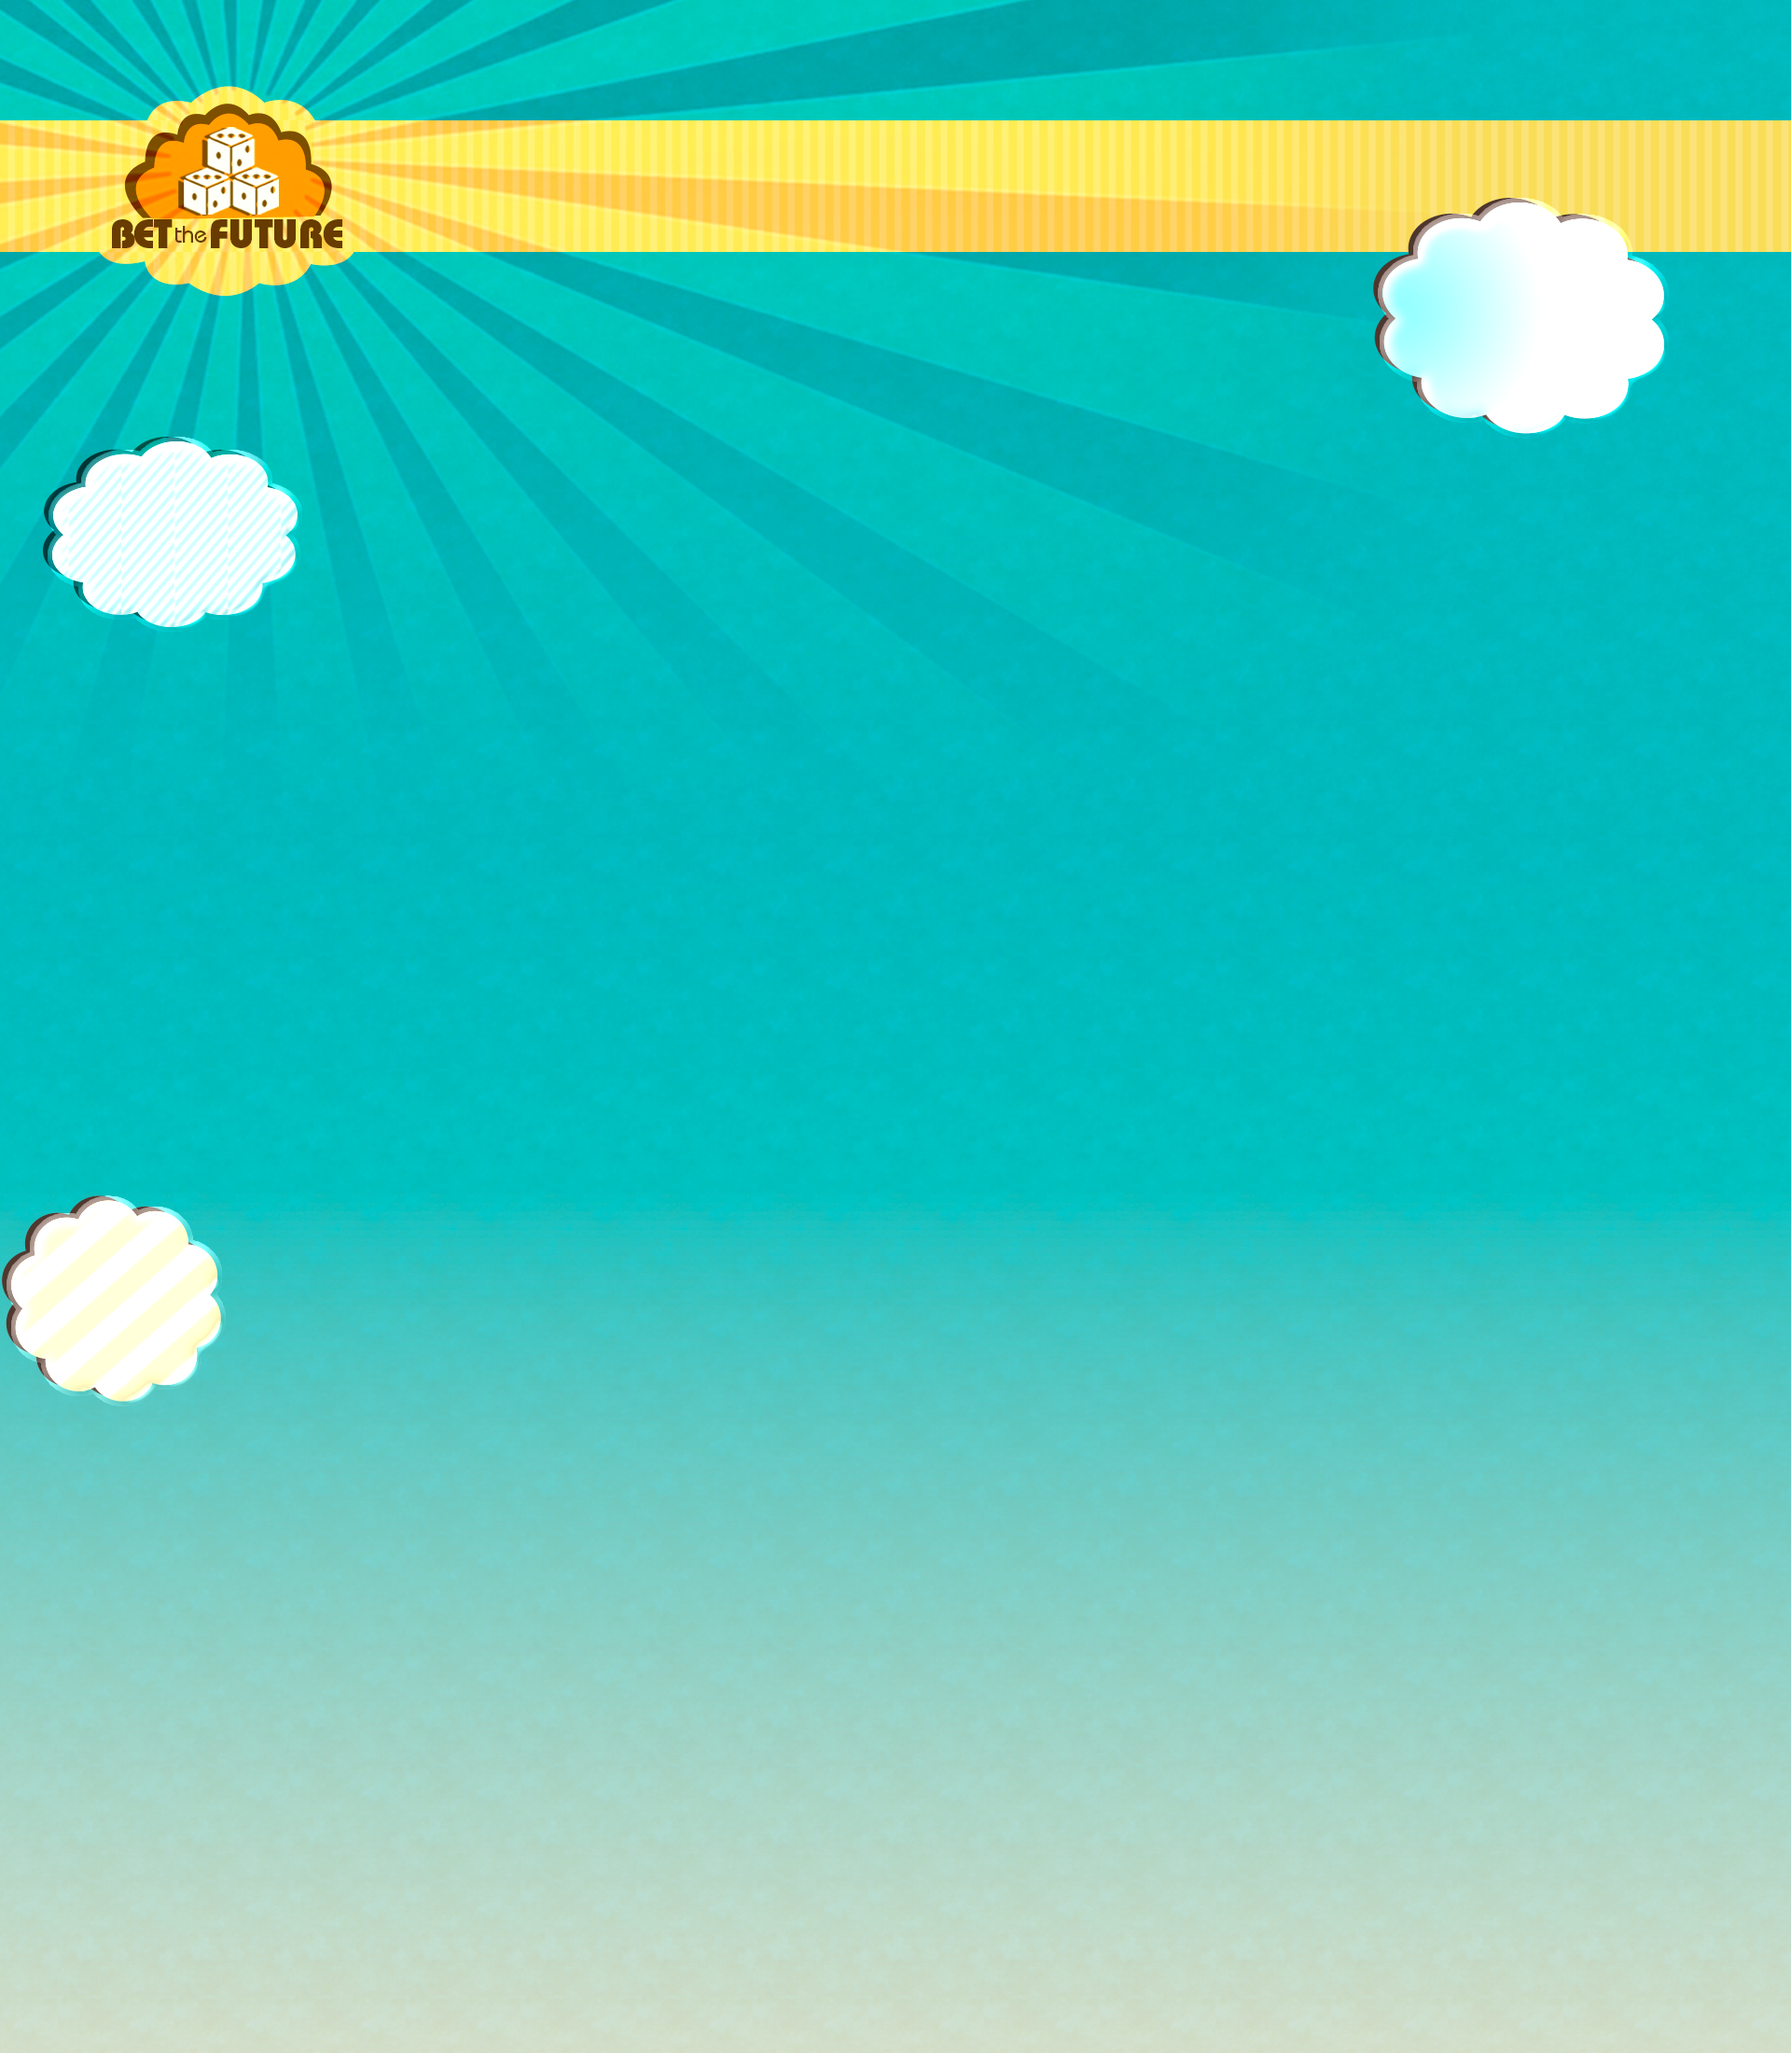
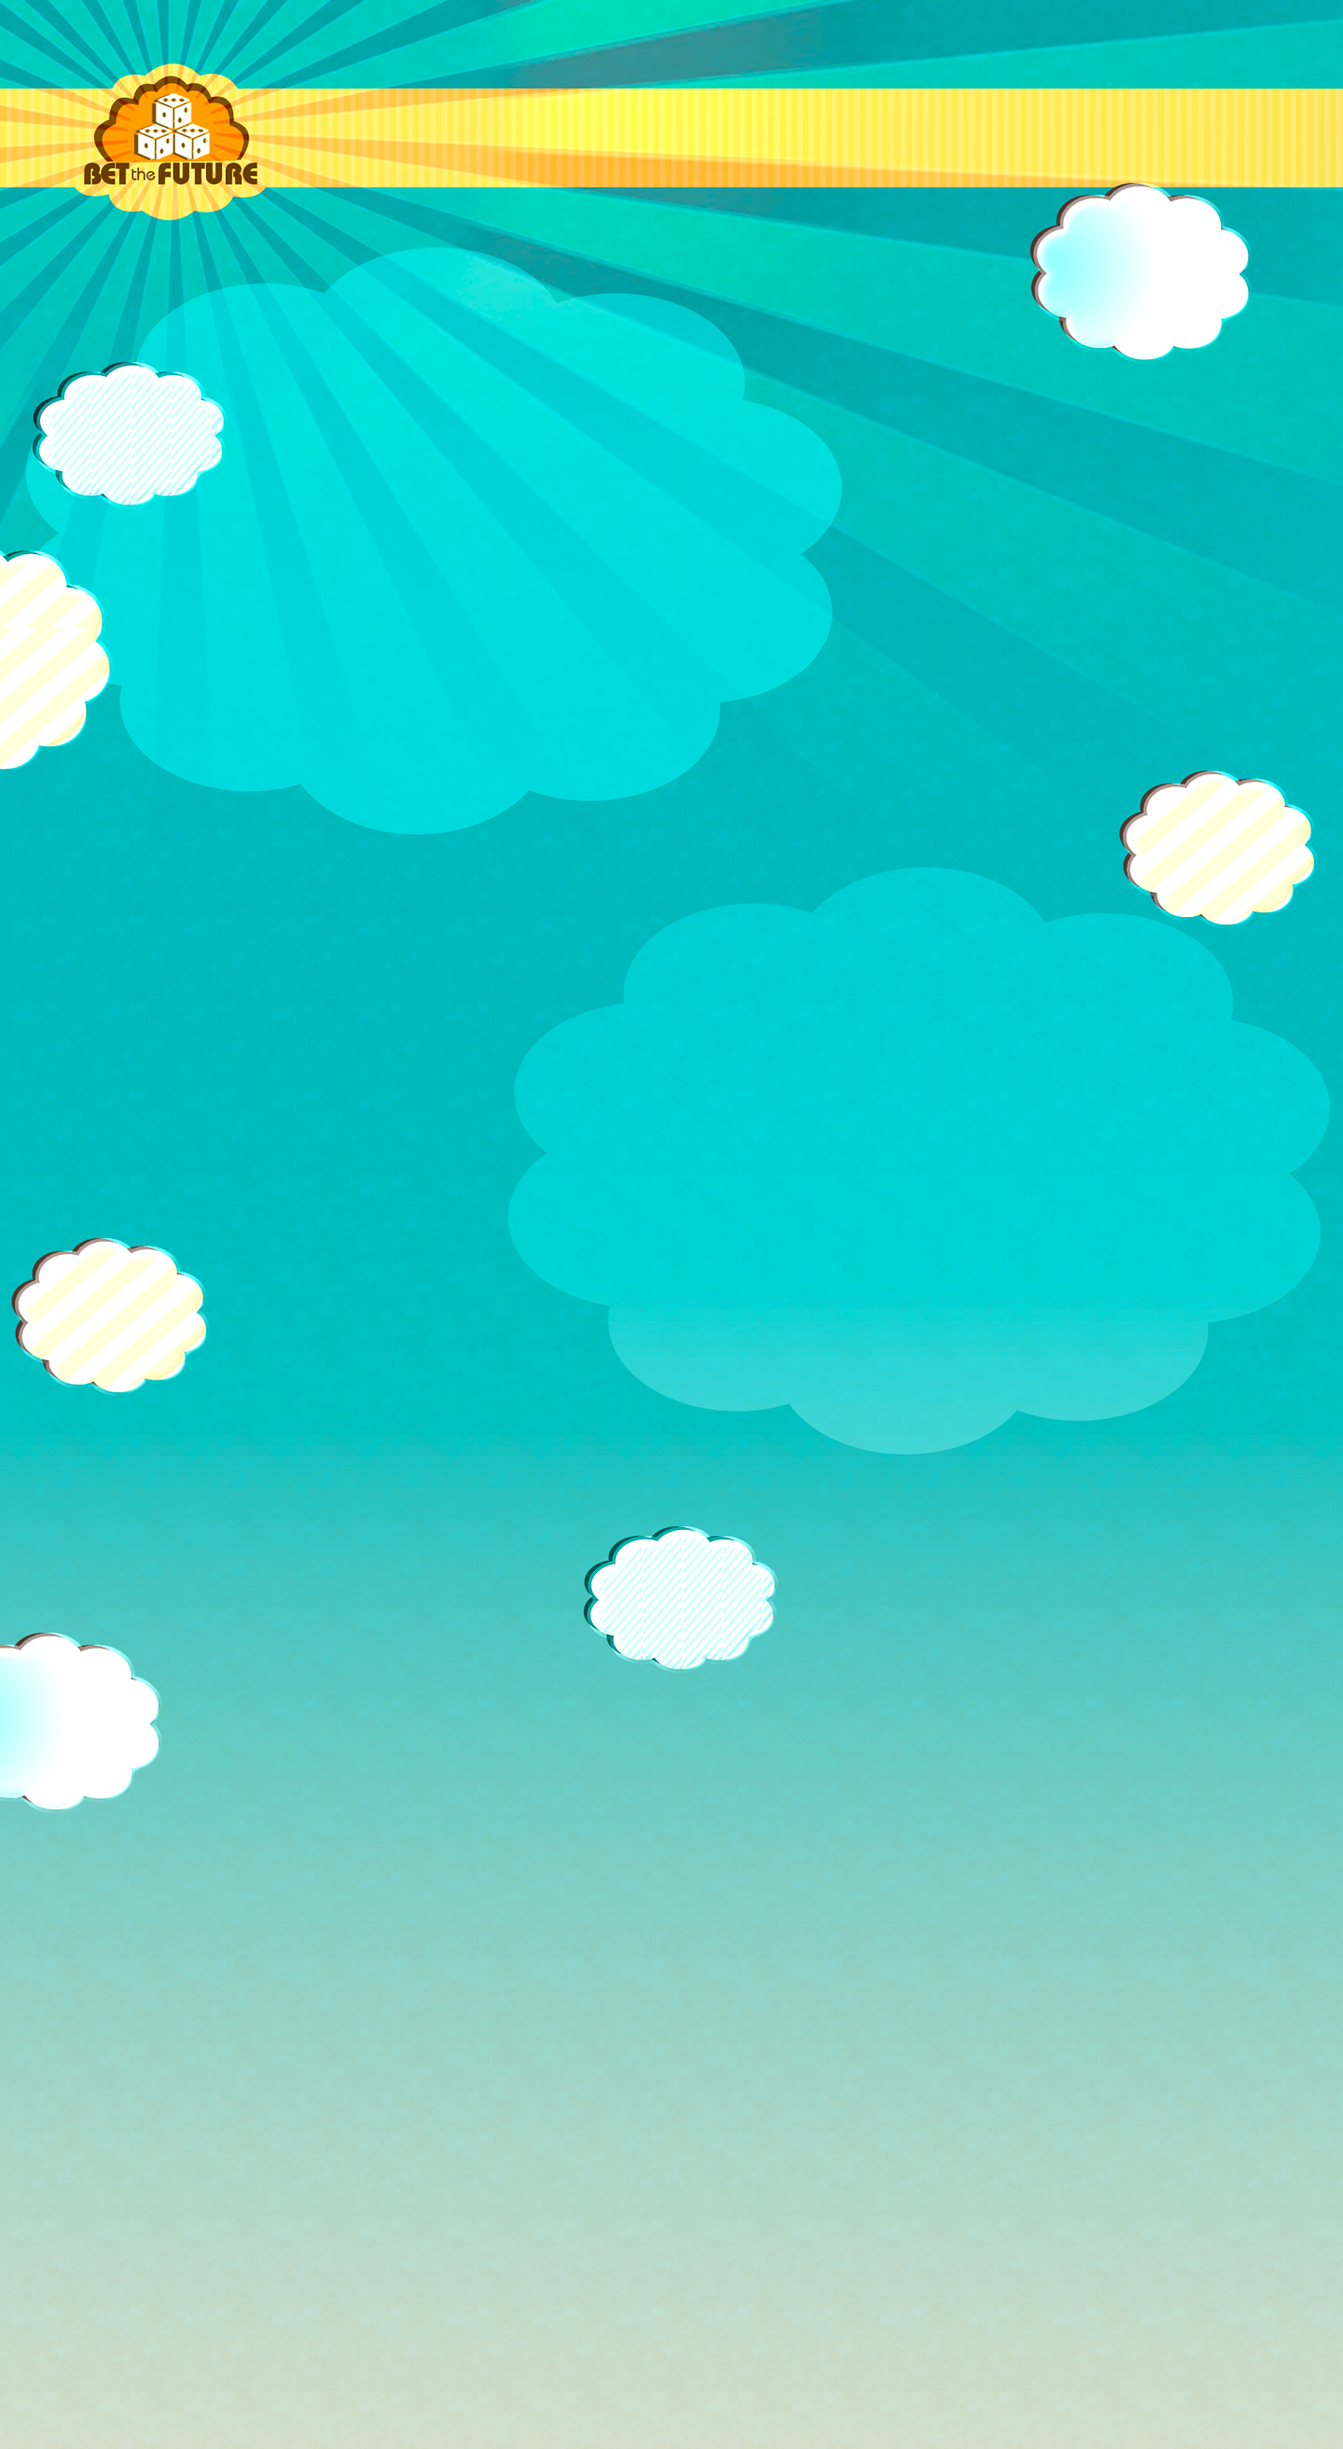
home page update

diff --git a/public/assets/css/homeStyle.css b/public/assets/css/homeStyle.css
@@ -9,14 +9,14 @@ body{
 
 
 
-.cloudDiv{
+.cloudDiv1{
 	background-image: url("../images/cloud.png");
 	background-position: -100% 0%;
 	background-size: contain;
 	background-repeat: no-repeat;
 	position: absolute;
 	transform: translateY(-50%);
-	top:60%;
+	top:65%;
 	width: 800px;
 	height: 600px;
 }
@@ -46,7 +46,7 @@ h1{
 	text-align: center;
 }
 label{
-	font-size: 17px;
+	font-size: 15px;
 	color: #00bbba;
 	font-weight: bold;
 }
@@ -55,5 +55,40 @@ label{
     background-color: #00babf;
     border-color: #04a3a3;
 }
+.cloudDiv2{
+	background-image: url("../images/cloud.png");
+	background-position: -100% 0%;
+	background-size: contain;
+	background-repeat: no-repeat;
+	position: absolute;
+	transform: translateY(-50%);
+	top:139%;
+	width: 800px;
+	height: 600px;
+}
 
+.placeholder{
+	color: white;
+}
+
+#cloud2{
+	margin-top: 35px;
+}
+#searchButton{
+	margin-left: 10px;
+	border: 2px solid #00bbba;
+	border-radius: 5px;
+}
+#searchBox{
+	border: 2px solid #00bbba;
+	border-radius: 11px;
+}
+ #navBar{ 
+    float: right;
+    margin-top: 27px;
+}
+li{
+	color: #ffcb42;
+
+}
 
